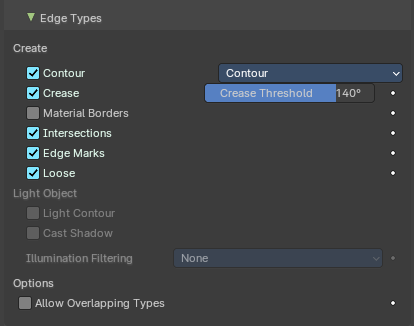
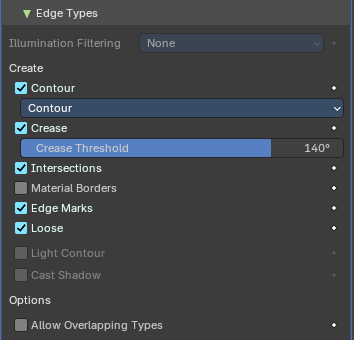
Line Art modifier: Edge Types layout, new picture and text (#1801)

diff --git a/docs2/content/editors/properties/modifiers/grease-pencil/generate.md b/docs2/content/editors/properties/modifiers/grease-pencil/generate.md
@@ -593,23 +593,26 @@ Applies the line art grease pencil strokes to the whole scene.
 
 Which kind of edges to influence.
 
+The **Illumination Filtering** row is at the top of the panel. It only works when a light object is set in the Light Reference panel (see below).
+
 #### Create
 
-##### Use Contour
+**Create** is a section label. All checkboxes below it are aligned left and indented, each with a decorator on the right for animation.
 
-Use a contour.
+##### Contour
+
+Generates strokes from the contour of the objects. Turn the checkbox on or off. The list below it is indented under Contour and is greyed out while Contour is off.
 
 ###### Silhouette Filtering
 
 ![Silhouette Filtering](/docs2/images/ui/properties/modifiers/grease-pencil-generate/silhouette-filtering.png)
 
-What kind of contour to use.
+What kind of contour to use. When you choose a filter other than None, a button with two arrows appears next to the list to invert the filtering.
 
 
 | Property | What it changes |
 | ---------------- | ---------------------------------------------------------------------------------------------------------------------- |
-| Use Crease | Generate strokes from crease edges. · **Crease Threshold**: Angles smaller than this value will be treaten as creases. |
-| Crease | Influence crease edges. The angle what edges are treaten as creases can be adjusted in the edit box. |
+| Crease | Generate strokes from crease edges. The **Crease Threshold** slider is indented under it: angles smaller than this value are treated as creases. |
 | Material Borders | Generate strokes from borders between materials. |
 | Intersections | Generate strokes from intersections. |
 | Edge Marks | Generate strokes from edge marks. |
